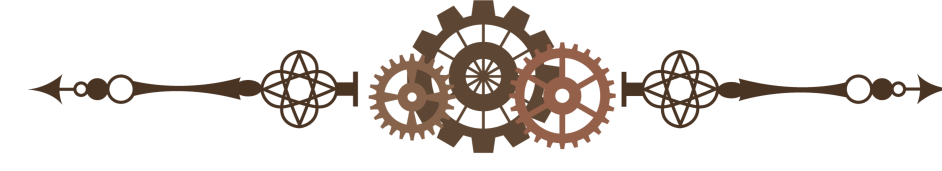
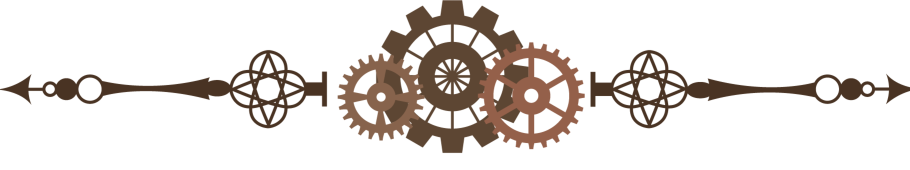
Modification de l'image de fond afin qu'elle soit moins lourde. Modification des bordures du forum et de l'administration en les inversants horizontalement et verticalement.

Changed region(s): [[0.0, 0.0, 1.0, 0.9118]]

diff --git a/style/style.css b/style/style.css
@@ -12,7 +12,6 @@ body {
 	font-family: "steamwreck";
 	font-size: 25px;
 	background-image: url("../public/red-velvet.jpg");
-	background-size: cover;
 }
 
 body .container {
@@ -82,6 +81,10 @@ a:hover {
 
 em, #deleteSubject {
 	font-size: 25px;
+}
+
+.border2 {
+	transform: rotateX(180deg) rotateY(180deg);
 }
 
 footer {

diff --git a/view/administration.php b/view/administration.php
@@ -1,5 +1,5 @@
 <h3 class="container">Administration</h3>
-<div class="section">
+<div class="section mb-5">
 	<img src="<?= HOST; ?>/public/steampunk-border-2.png" alt="bordure" class="img-fluid" />
 	<div class="mt-3 mb-5">
 		<h3>Nouveau livre</h3>
@@ -11,7 +11,7 @@
 			</div>
 		</form>
 	</div>
-	<img src="<?= HOST; ?>/public/steampunk-border-2.png" alt="bordure" class="img-fluid" />
+	<img src="<?= HOST; ?>/public/steampunk-border-2.png" alt="bordure" class="border2 img-fluid" />
 </div>
 <h3>Gestion des membres</h3>
 <div class="container d-md-flex justify-content-between">

diff --git a/view/forum.php b/view/forum.php
@@ -13,5 +13,5 @@
 			<li class="nav-item"><a class="nav-link" href="<?= HOST; ?>/forumThemes/bazar">Bazar</a></li>
 		</ul>
 	</nav>
-	<img src="<?= HOST; ?>/public/steampunk-border.png" alt="Bordure" class="img-fluid" />
+	<img src="<?= HOST; ?>/public/steampunk-border.png" alt="Bordure" class="border2 img-fluid" />
 </div>
